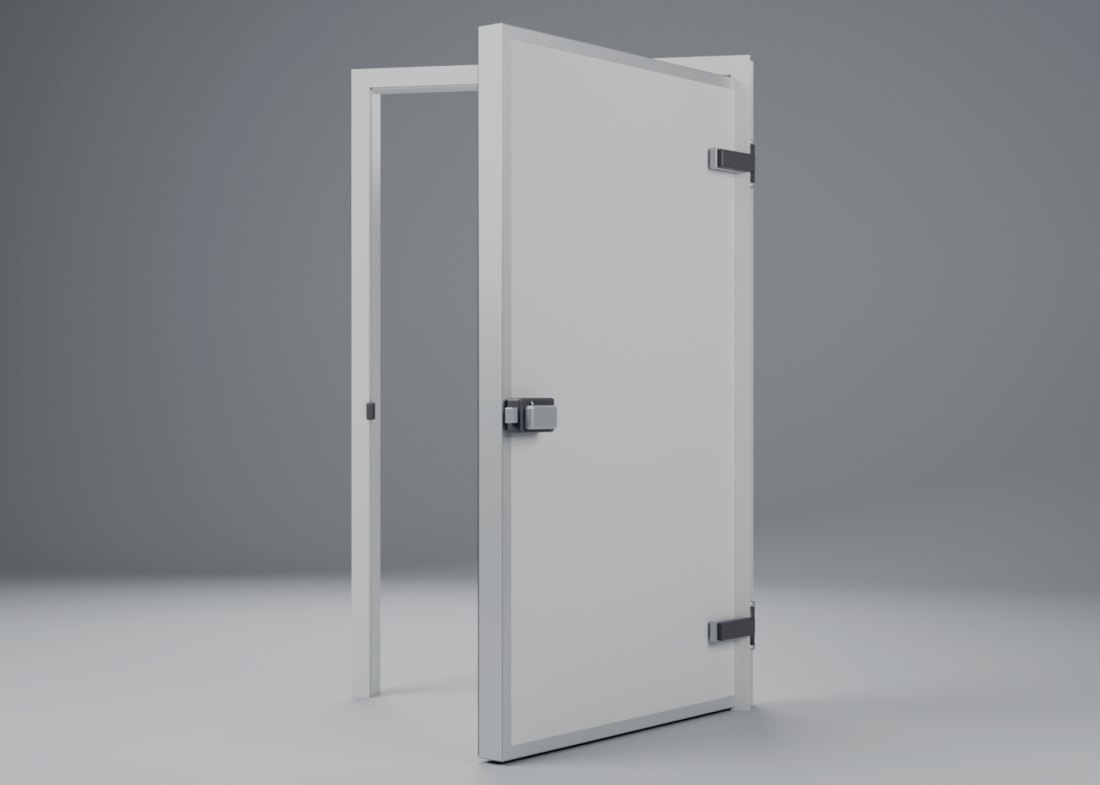
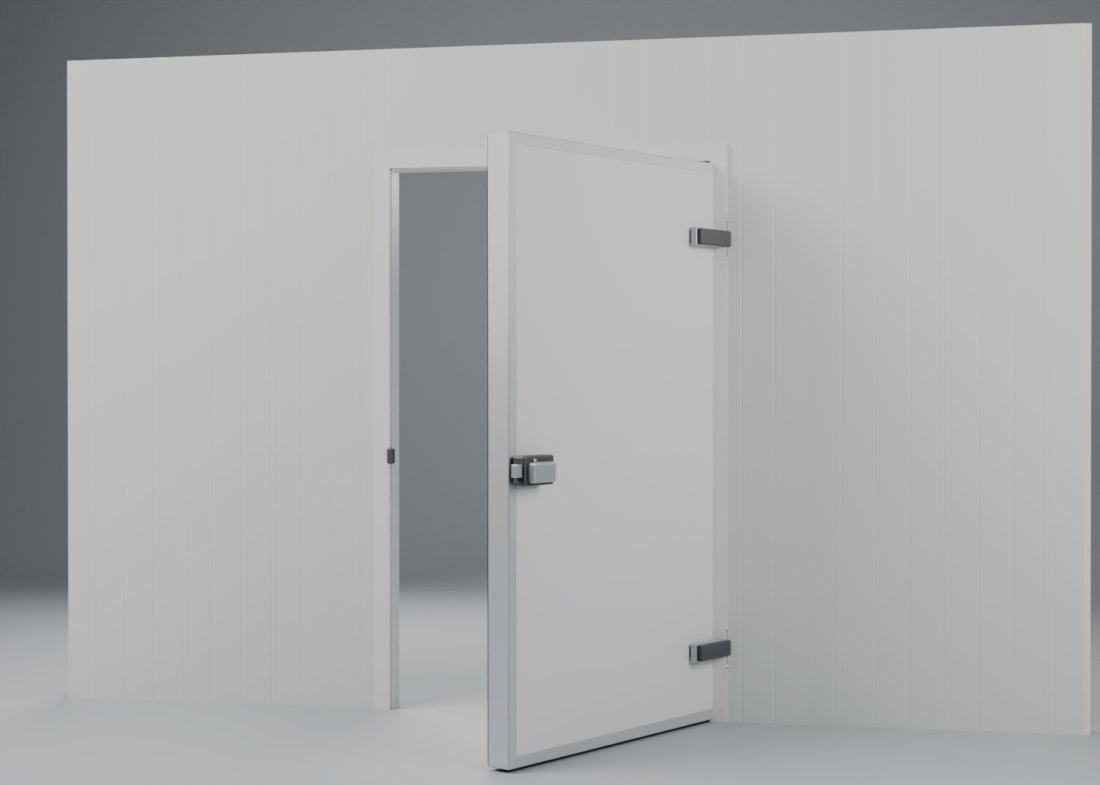
Door cards: hero renders with the installed panel wall

diff --git a/public/products.html b/public/products.html
@@ -70,17 +70,17 @@
     <div class="tx"><span class="tag2">Mineral wool fire-rated panels</span><h3>Fireguard Roof Panel | Acoustic</h3><p>Self-supporting roof panel with a perforated liner for sound dampening.</p><div class="meta">Mineral wool core · micro-perforated liner</div></div></a>
 </div></div></section>
 <section class="catsec" id="doors"><div class="wrap"><div class="cathead"><div><h2 class="rv">Insulated doors</h2><p class="rv d1">Insulated doors matched to the thermal performance of the surrounding panel envelope.</p></div><a class="link rv" href="/showroom#doors">Explore in 3D</a></div><div class="pgrid">
-  <a class="pcard rv d0" href="/showroom#doors"><div class="ph" style="background-image:url('/site/img/doors/hinged-4x7_open.jpg')" role="img" aria-label="Hinged cold-room door"></div>
+  <a class="pcard rv d0" href="/showroom#doors"><div class="ph dr" style="background-image:url('/site/img/doors/hinged-4x7_open.jpg')" role="img" aria-label="Hinged cold-room door"></div>
     <div class="tx"><span class="tag2">Insulated doors</span><h3>Hinged cold-room door</h3><p>Flush insulated leaf with an aluminum edge frame, heavy hinges and a key latch.</p><div class="meta">3&times;7 &middot; 4&times;7 &middot; 5&times;7 ft</div><span class="link" style="color:var(--link-light)">See it in 3D</span></div></a>
-  <a class="pcard rv d1" href="/showroom#doors"><div class="ph" style="background-image:url('/site/img/doors/double-6x7_open.jpg')" role="img" aria-label="Double cold-room door"></div>
+  <a class="pcard rv d1" href="/showroom#doors"><div class="ph dr" style="background-image:url('/site/img/doors/double-6x7_open.jpg')" role="img" aria-label="Double cold-room door"></div>
     <div class="tx"><span class="tag2">Insulated doors</span><h3>Double cold-room door</h3><p>Two hinged leaves meeting at a gasketed center, for wide openings and pallet traffic.</p><div class="meta">Double leaf &middot; key latch</div><span class="link" style="color:var(--link-light)">See it in 3D</span></div></a>
   <a class="pcard rv d2" href="/showroom#doors"><div class="ph" style="background-image:url('/site/img/insulated-doors-sliding-cooler-doors.webp')" role="img" aria-label="Sliding cooler door"></div>
     <div class="tx"><span class="tag2">Insulated doors</span><h3>Sliding cooler door</h3><p>Heavy-duty sliding door for temperature control and secure access.</p><div class="meta">5&times;7 &middot; 6&times;7 ft</div><span class="link" style="color:var(--link-light)">See it in 3D</span></div></a>
-  <a class="pcard rv d0" href="/showroom#doors"><div class="ph" style="background-image:url('/site/img/doors/office-3x7_front.jpg')" role="img" aria-label="Office door"></div>
+  <a class="pcard rv d0" href="/showroom#doors"><div class="ph dr" style="background-image:url('/site/img/doors/office-3x7_front.jpg')" role="img" aria-label="Office door"></div>
     <div class="tx"><span class="tag2">Insulated doors</span><h3>Office door</h3><p>Flush insulated door in an aluminum frame with a lever handle and key cylinder.</p><div class="meta">2.5&times;7 &middot; 3&times;7 &middot; 4&times;7 ft</div><span class="link" style="color:var(--link-light)">See it in 3D</span></div></a>
-  <a class="pcard rv d1" href="/showroom#doors"><div class="ph" style="background-image:url('/site/img/doors/clean-3x7_open.jpg')" role="img" aria-label="Clean-room door"></div>
+  <a class="pcard rv d1" href="/showroom#doors"><div class="ph dr" style="background-image:url('/site/img/doors/clean-3x7_open.jpg')" role="img" aria-label="Clean-room door"></div>
     <div class="tx"><span class="tag2">Insulated doors</span><h3>Clean-room door</h3><p>Flush door with a round vision window, aluminum frame, lever handle and door closer.</p><div class="meta">Single &middot; double</div><span class="link" style="color:var(--link-light)">See it in 3D</span></div></a>
-  <a class="pcard rv d2" href="/showroom#doors"><div class="ph" style="background-image:url('/site/img/doors/clean-double-6x7_open.jpg')" role="img" aria-label="Double clean-room door"></div>
+  <a class="pcard rv d2" href="/showroom#doors"><div class="ph dr" style="background-image:url('/site/img/doors/clean-double-6x7_open.jpg')" role="img" aria-label="Double clean-room door"></div>
     <div class="tx"><span class="tag2">Insulated doors</span><h3>Double clean-room door</h3><p>Two flush leaves with vision windows for clean-room and process-room openings.</p><div class="meta">Double leaf &middot; 6&times;7 ft</div><span class="link" style="color:var(--link-light)">See it in 3D</span></div></a>
 </div></div></section>
 <section class="catsec" id="trim"><div class="wrap"><div class="cathead"><div><h2 class="rv">Trim &amp; hardware</h2><p class="rv d1">Trim, fasteners and sealants made for insulated panel systems.</p></div><a class="link rv" href="/trim">All trim specs</a></div><div class="pgrid">

diff --git a/public/showroom.html b/public/showroom.html
@@ -35,7 +35,7 @@
 <section class="sec" style="padding-top:44px"><div class="wrap"><div class="pick">
 <button class="pcard3 rv" data-id="pir100"><div class="ph" style="background-image:url('/site/img/hero-panel.jpg')" role="img" aria-label="100 mm PIR panel"></div><div class="tx"><b>100 mm PIR panel</b><span>Layers + locking joint</span></div></button>
 <button class="pcard3 rv" data-id="designer"><div class="ph" style="background-image:url('/site/img/insulated-wall-roofs-panels-hp-box-wall-panel.webp')" role="img" aria-label="Wall &amp; roof panels"></div><div class="tx"><b>Wall &amp; roof panels</b><span>Profiles, thickness, color</span></div></button>
-<button class="pcard3 rv" data-id="doors"><div class="ph" style="background-image:url('/site/img/doors/hinged-4x7_open.jpg')" role="img" aria-label="Doors"></div><div class="tx"><b>Doors</b><span>Hinged, double, office, clean room</span></div></button>
+<button class="pcard3 rv" data-id="doors"><div class="ph dr" style="background-image:url('/site/img/doors/hinged-4x7_open.jpg')" role="img" aria-label="Doors"></div><div class="tx"><b>Doors</b><span>Hinged, double, office, clean room</span></div></button>
 <button class="pcard3 rv" data-id="trim"><div class="ph" style="background-image:url('/site/img/trim-hardware-corner-angles.webp')" role="img" aria-label="Trim &amp; hardware"></div><div class="tx"><b>Trim &amp; accessories</b><span>Trim, strut, PVC panels</span></div></button>
 <a class="pcard3 link rv" href="/#build"><b>Build a 20&prime; &times; 20&prime; (6.1 &times; 6.1 m) room</b><span>Watch panels go up as you scroll</span></a>
 </div>

diff --git a/public/site/css/site.css b/public/site/css/site.css
@@ -442,3 +442,4 @@ footer .wrap{display:flex;justify-content:space-between;gap:20px;flex-wrap:wrap}
 .inst-hint{position:absolute;left:0;right:0;bottom:56px;text-align:center;font-size:12px;color:rgba(255,255,255,.7);margin:0;pointer-events:none}
 .inst-view.loading::after{content:"Loading 3D model…";position:absolute;inset:0;display:grid;place-items:center;color:rgba(255,255,255,.75);font-size:14px}
 .inst-view.mode-3d .ilab{transform:translate(-50%,-135%)}
+.pcard .ph.dr,.pcard3 .ph.dr{background-size:auto 128%;background-position:50% 60%}
